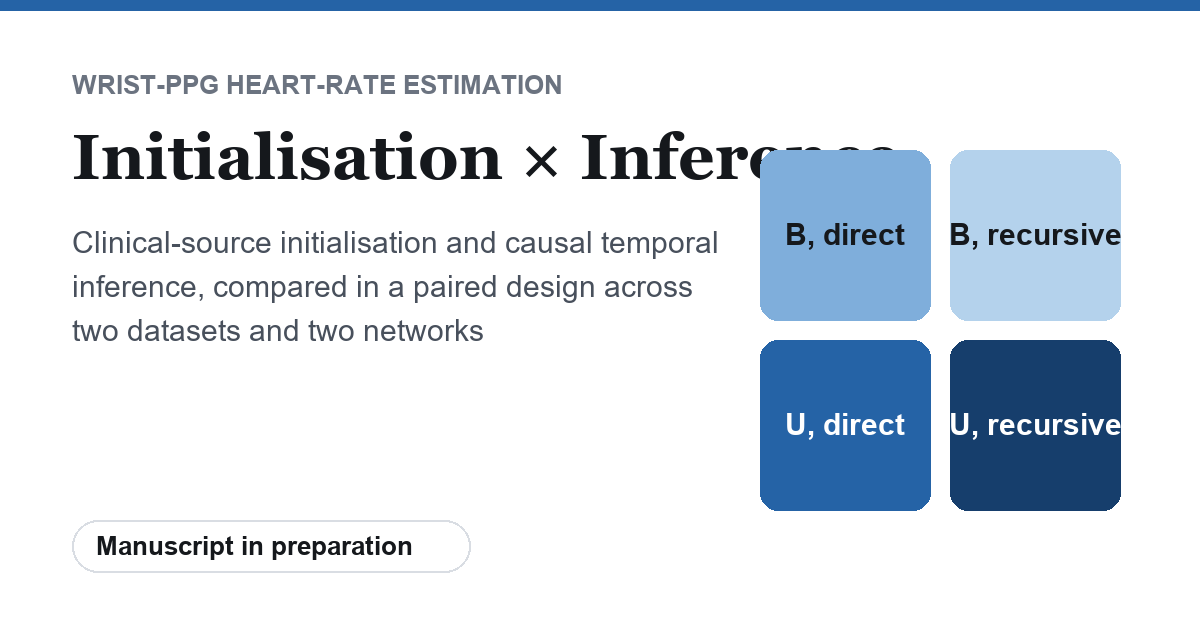
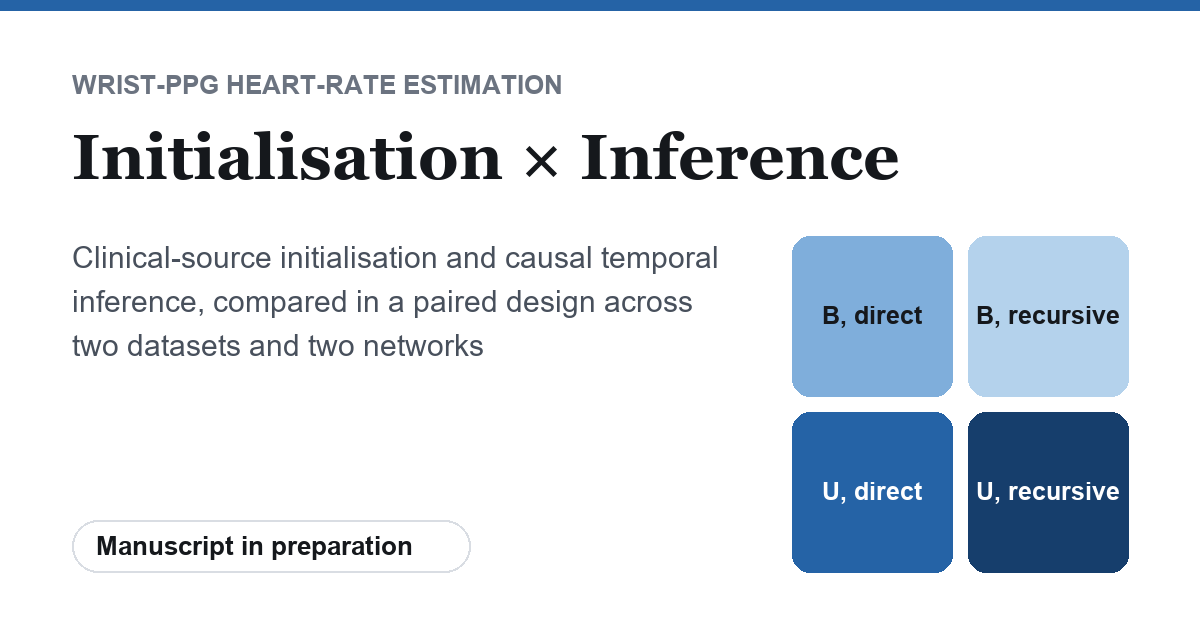
Add research README and fix project social preview

Changed region(s): [[0.0617, 0.2111, 0.9558, 0.9349]]

diff --git a/index.html b/index.html
@@ -10,7 +10,7 @@
 <meta property="og:title" content="Initialisation × Inference — wrist-PPG heart rate">
 <meta property="og:description" content="A paired evaluation of clinical-source initialisation and causal temporal inference. Manuscript in preparation.">
 <meta property="og:type" content="website">
-<meta property="og:image" content="assets/social-preview.png">
+<meta property="og:image" content="https://xianjin-lin.github.io/ppg-initialisation-inference/assets/social-preview.png">
 <link rel="icon" href="assets/favicon.svg" type="image/svg+xml">
 <link rel="stylesheet" href="styles.css">
 <script>

diff --git a/README.md b/README.md
@@ -1,0 +1,137 @@
+<h1 align="center"><img src="assets/favicon.svg" width="44" align="absmiddle" alt=""> Initialisation × Inference</h1>
+
+<p align="center"><strong>Clinical-source initialisation and causal temporal inference for wrist-PPG heart-rate estimation</strong><br><sub>A paired evaluation across two datasets and two networks</sub></p>
+
+<p align="center"><a href="https://orcid.org/0009-0002-4046-7302">Xianjin Lin</a><sup>1</sup> · <a href="https://orcid.org/0000-0003-2353-8615">Liyang Yu</a><sup>1*</sup> · Zhonglou Luo<sup>1</sup> · Rui Tian<sup>1</sup> · <a href="https://orcid.org/0000-0001-8932-6792">Wangcai Ding</a><sup>2,3</sup><br><sub><sup>1</sup>Qinghai University · <sup>2</sup>Lanzhou Jiaotong University · <sup>3</sup>Xi'an Traffic Engineering Institute · * Corresponding author</sub></p>
+
+<p align="center"><a href="https://xianjin-lin.github.io/ppg-initialisation-inference/"><strong>Project&nbsp;page</strong></a> · <a href="#paired-design">Design</a> · <a href="#key-evidence">Key&nbsp;evidence</a> · <a href="#severe-error-duration-exploratory">Duration</a> · <a href="#what-the-project-page-contains">Page&nbsp;guide</a><br><a href="#what-is-and-is-not-released">Released&nbsp;material</a> · <a href="#datasets">Datasets</a> · <a href="#citation">Citation</a></p>
+
+<p align="center"><img src="https://img.shields.io/badge/status-manuscript%20in%20preparation-6b7280" alt="Status: manuscript in preparation"> <img src="https://img.shields.io/badge/content-aggregate%20results%20only-2563a6" alt="Content: aggregate results only"> <img src="https://img.shields.io/badge/site-static%2C%20no%20build%20step-1f3b63" alt="Site: static, no build step"></p>
+
+<table align="center">
+<tr>
+<td><a href="https://xianjin-lin.github.io/ppg-initialisation-inference/"><img src="assets/figures/fig1_design_thumb.webp" width="300" alt="Paired design: B and U initialisations, each read out directly and through a fixed causal recursion"></a></td>
+<td><strong>Interactive project page.</strong><br>Explore all 80 stored aggregate estimates, the<br>severe-error duration split and a<br>synthetic recursion lab.</td>
+</tr>
+</table>
+
+<blockquote>
+<p><sub><strong>Summary.</strong> Clinical-source initialisation and causal temporal inference act at different stages of wrist photoplethysmography (PPG) heart-rate estimation, so their effects can be confounded unless they are compared under matched conditions. HRNet and TEMPONet-191 were fitted on PPG-DaLiA from random (B) or clinical-source (U) initialisation and read out directly and through a fixed causal recursion adapted from BeliefPPG, on DaLiA and on 15 evaluation-only WESAD participants. Recursion reduced mean MAE and C20 under both initialisations in all four network–dataset settings, but on WESAD it reduced MAE less under U than under B for both networks. This repository hosts the static companion page: stored aggregate results and three manuscript figures, not models, predictions or participant-level data.</sub></p>
+</blockquote>
+
+## Paired design
+
+Initialisation is chosen when a network is trained; the recursion is applied afterwards, to the frozen network's outputs. Crossing the two choices on identical windows gives a 2 × 2 within each setting:
+
+| | Direct readout | Fixed causal recursion |
+|---|---|---|
+| **B** · random initialisation | B, direct | B, recursive |
+| **U** · clinical-source initialisation | U, direct | U, recursive |
+
+<img src="assets/figures/fig1_design.webp" width="100%" alt="Schematic of the paired design. B (random) and U (clinical-source) initialise the same network, trained with the same target recipe in 15 participant-separated PPG-DaLiA folds with three paired repetitions. Each frozen model is read out directly and through a fixed causal recursion whose transition matrix is fitted on the fold's training participants and shared by B and U.">
+
+<sub>Paired design (manuscript Fig. 1). U starts from supervised heart-rate training on clinical PPG (MIMIC-III-Ext-PPG, no PPG-DaLiA data). Both initialisations then follow the same target recipe in 15 participant-separated folds × 3 paired repetitions. After training, no parameter is retrained or searched. The recursion's transition matrix is fitted on each fold's training participants and shared by B and U. The network glyph is schematic.</sub>
+
+The design was repeated for two networks (HRNet, TEMPONet-191) and two datasets (PPG-DaLiA, WESAD), giving **four settings**. WESAD was used for evaluation only, with the same wrist device model as DaLiA, so it is not a cross-device test. Both networks share the 15 evaluated participants of each dataset, so the four settings are not independent replications and do not amount to 60 people.
+
+| Endpoint | Definition |
+|---|---|
+| MAE | Mean absolute error (bpm) |
+| F5 | Percentage of windows with absolute error above 5 bpm; differences in percentage points (pp) |
+| E20 | Mean positive excess above 20 bpm, mean of max(0, absolute error − 20) (bpm) |
+| C20 | Contribution of errors above 20 bpm to MAE, mean of absolute error × 1(absolute error > 20) over all windows (bpm); not a percentage |
+
+Repetitions are averaged within each participant first, and participants are then weighted equally. The 5- and 20-bpm thresholds are analysis definitions, not clinical safety criteria.
+
+## Key evidence
+
+<img src="assets/figures/fig6_cross_setting.webp" width="100%" alt="Six interval panels across four settings (HRNet and TEMPONet-191 on DaLiA and WESAD): (a) U minus B MAE under direct and recursive readout; (b–d) recursive-minus-direct MAE, F5 and C20 for B and U; (e, f) the interaction U(rec−dir) − B(rec−dir) for MAE and F5.">
+
+<sub>Initialisation, recursion and interaction contrasts across four settings (manuscript Fig. 6). Points are participant-equal means; whiskers are stored descriptive 95% participant-bootstrap percentile intervals. The interaction intervals in (e, f) are their own stored paired intervals and were never formed from the separate B and U intervals.</sub>
+
+**Initialisation (panel a).** For HRNet on DaLiA, U lowered participant-averaged MAE by 0.204 and 0.203 bpm under direct and recursive readout (intervals 0.047–0.372 and 0.046–0.364 bpm). In the other three settings all U − B MAE intervals included zero, so a consistent average-error advantage of U was not established beyond HRNet on DaLiA.
+
+**Recursion (panels b–d).** Recursion reduced mean MAE and C20 under both initialisations in all four settings, and every corresponding interval lay below zero. Averages hide exceptions: on WESAD, recursion increased MAE in two to seven of 15 participants and F5 in up to ten.
+
+**Interaction (panels e, f).** On WESAD, recursion reduced MAE less under U than under B for both networks: +0.046 bpm [+0.012, +0.077] for HRNet and +0.259 bpm [+0.149, +0.406] for TEMPONet-191. The corresponding TEMPONet-191 interval on DaLiA included zero.
+
+<details>
+<summary><strong>How to read the intervals and signs</strong></summary>
+
+- Intervals are descriptive participant-bootstrap percentile intervals (10,000 paired resamples), conditional on the evaluated fits. They are not significance tests, and an interval that includes zero is not evidence of no effect or of equivalence.
+- For U − B, negative values mean lower values under U. For recursive − direct, negative values mean lower values under recursion.
+- The interaction is (U<sub>rec</sub> − U<sub>dir</sub>) − (B<sub>rec</sub> − B<sub>dir</sub>). A positive value means the recursive-minus-direct change was more positive under U than under B (a smaller reduction or a larger increase). By itself it does not say whether either effect is an improvement.
+- No test was made of whether an effect differs between settings or datasets.
+
+</details>
+
+## Severe-error duration (exploratory)
+
+<img src="assets/figures/fig8_duration.webp" width="100%" alt="Stacked bars splitting C20 into isolated (1–3 windows), intermediate (4–14) and sustained (15 or more) severe-error runs under direct (D) and recursive (R) readout for B and U in the four settings.">
+
+<sub>C20 composition by severe-error duration (manuscript Fig. 8). Runs of windows with error above 20 bpm are classed as isolated (1–3), intermediate (4–14) or sustained (≥ 15). Bars are participant-equal means, and each stack sums to that readout's C20.</sub>
+
+Recursion lowered the contribution of isolated severe errors in every participant and setting, while the average contribution of sustained severe errors rose. Runs were classified separately under each readout, so the bars show how C20 is redistributed among duration classes. They do not follow individual errors, and they cannot separate prolonged, merged, reclassified or newly created errors. The prespecified summary rule was not met in any setting because too few participants had sustained runs under direct readout. HRNet analyses followed a frozen plan; the TEMPONet-191 applications were additional analyses.
+
+## What the project page contains
+
+| Section | Content | Source |
+|---|---|---|
+| Design | Interactive version of the 2 × 2 and the endpoint definitions | Manuscript |
+| Evidence | Filterable explorer of all 80 stored aggregate estimates (4 settings × 5 contrasts × 4 endpoints), with CSV download | Stored results |
+| Participants | Group means and counts of participants whose values rose or fell; per-participant rows are held pending release approval | Stored results |
+| Duration | Interactive C20 duration stacks | Stored results, exploratory |
+| Recursion lab | Browser-generated toy sequence showing the causal update | **Synthetic**, not participant data |
+| Figures and provenance | Web renderings of Figs. 1, 6 and 8, and the origin of every number | Manuscript |
+
+The page only explains results reported in the manuscript and adds no new analysis. No trained model is run in the browser. Real-evidence views read stored aggregate values from the repository's data files; the recursion lab computes only a synthetic illustration. The 80 contrast estimates and their intervals are also available as CSV ([`data/evidence_aggregate.csv`](data/evidence_aggregate.csv)).
+
+## What is and is not released
+
+| Component | Available here |
+|---|---|
+| Aggregate results | 80 stored participant-equal means with descriptive 95% intervals (`data/evidence_aggregate.csv`) |
+| Figures | Web renderings of manuscript Figs. 1, 6 and 8 (review-candidate numbering, may change) |
+| Project page | Static HTML, CSS and JavaScript with no external runtime dependency |
+
+**Not released:** training, inference and analysis code; checkpoints and prediction caches; per-participant or per-window values; raw or processed PPG and ECG recordings. No future release of these components is promised.
+
+<details>
+<summary><strong>Repository map</strong></summary>
+
+```text
+index.html                    Project page entry point (GitHub Pages)
+app.js                        Real-evidence views; reads stored aggregates only
+lab.js, lab-core.js           Synthetic recursion lab (toy data generated in the browser)
+styles.css                    Page styles, light and dark themes
+data/evidence_aggregate.csv   80 stored aggregate estimates, full precision
+data/*.js                     Aggregate values, figure metadata, provenance and site settings
+assets/figures/               Web renderings of manuscript figures
+assets/                       Favicon and social preview image
+```
+
+</details>
+
+## Datasets
+
+This repository redistributes no dataset. Each dataset is governed by its provider's terms.
+
+| Dataset | Role in the study | Reference |
+|---|---|---|
+| [MIMIC-III-Ext-PPG](https://physionet.org/content/mimic-iii-ext-ppg/1.1.0/) v1.1.0 | Clinical source for U initialisation | [doi:10.13026/r6k1-xt76](https://doi.org/10.13026/r6k1-xt76) |
+| [PPG-DaLiA](https://archive.ics.uci.edu/dataset/495/ppg+dalia) | Target training and evaluation (15 participant-separated folds) | Reiss et al., 2019, [doi:10.3390/s19143079](https://doi.org/10.3390/s19143079) |
+| [WESAD](https://archive.ics.uci.edu/dataset/465/wesad+wearable+stress+and+affect+detection) | Evaluation only (15 participants) | Schmidt et al., 2018, [doi:10.1145/3242969.3242985](https://doi.org/10.1145/3242969.3242985) |
+
+WESAD identifiers follow WESAD numbering. Equal labels do not identify the same person across the two datasets, and participant overlap between them is unverified.
+
+## Citation
+
+**Manuscript:** *Clinical-source initialisation and causal temporal inference for wrist-PPG heart-rate estimation: a paired evaluation across two datasets and two networks.* The manuscript is in preparation; there is no DOI, preprint or published version yet. Values and figures follow the current review candidate and may change before publication.
+
+When using the datasets, please cite the original providers listed above.
+
+## Rights and responsible use
+
+No LICENSE file is included, so no open-source licence is granted for the published material. This is a research companion, not a medical device, diagnostic tool or validated real-time monitoring system. It makes no claim of live wearable deployment, clinical safety or alarm performance.
+
+The page was built with AI-assisted coding and checking under the authors' direction; scientific statements are taken from the manuscript and the stored results.
